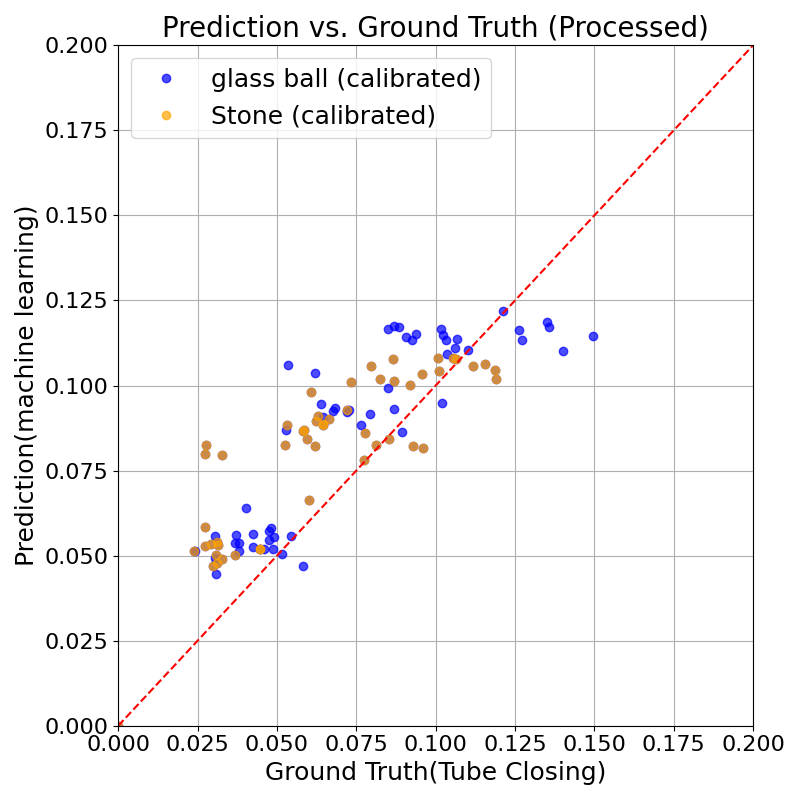
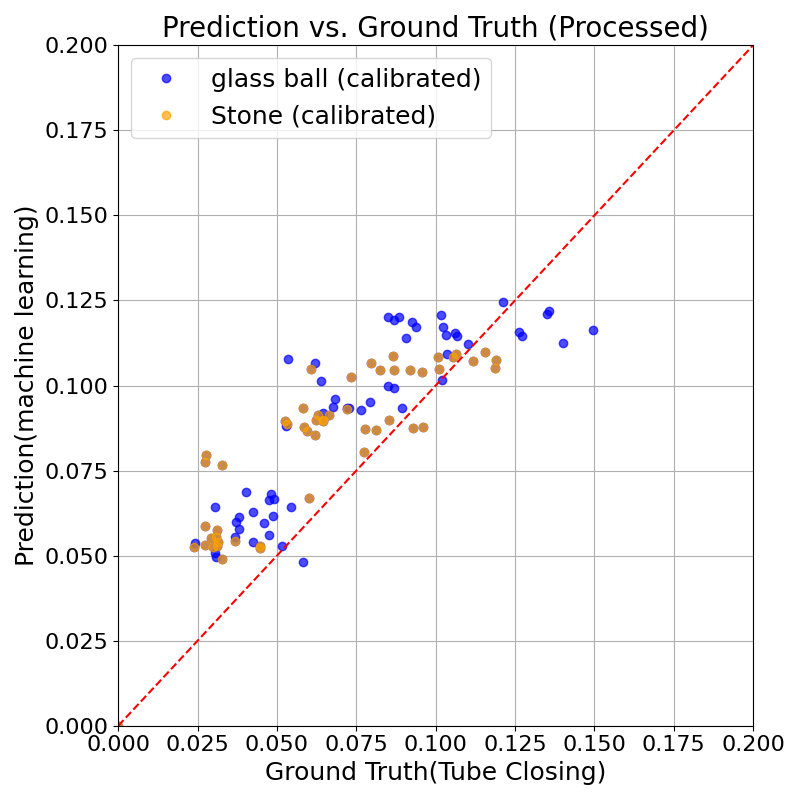
main

diff --git a/scripts/optimize.py b/scripts/optimize.py
@@ -300,11 +300,14 @@ def preprocess(x: np.ndarray):
     del sos
     for i in range(x.shape[1]):
         x[:,i,:,:] = np.abs(signal.hilbert(x[:,i,:,:], axis=2))
+    wall_idx=np.argmax(x>0.5,axis=1)
+    start_idx=np.mean(wall_idx).astype(int)+180
     print("Hilbert done.")
     max_values_per_col = np.max(x[:,:,:,250:350], axis=3, keepdims=True)
     x = x/max_values_per_col
     del max_values_per_col
     x = np.log1p(x)
+    x=x[:,start_idx:start_idx+1500]
     print("Preprocess done.")
     return x
 
@@ -400,14 +403,14 @@ def objective(trial: Trial, base_config_path: str) -> float:
             x = x[:, :, ::cfg.dataset.downsample_factor, :]
             print(f"[INFO] Downsampled H: {h0} -> {x.shape[2]} (factor={cfg.dataset.downsample_factor})")
         
-        # # Preprocess
-        # x = preprocess(x)
-        # print(f"x.shape: {x.shape}")
-        # print(f"x.min: {np.min(x)}")
-        # print(f"x.max: {np.max(x)}")
+        # Preprocess
+        x = preprocess(x)
+        print(f"x.shape: {x.shape}")
+        print(f"x.min: {np.min(x)}")
+        print(f"x.max: {np.max(x)}")
 
-        # x=x[:,0,:,:]
-        # x=x[:,np.newaxis,:,:]
+        x=x[:,0,:,:]
+        x=x[:,np.newaxis,:,:]
 
         # Create dataset
         print("[STEP] Build dataset tensors...")

diff --git a/src/utils.py b/src/utils.py
@@ -319,6 +319,11 @@ def erode_signals(x, window_size=30):
     import polars as pl
     s=pl.from_numpy(np.transpose(x))
 
+    s = s.select(pl.all().rolling_mean(
+        window_size=window_size//3,
+        min_periods=1
+    ))
+
     s = s.select(pl.all().rolling_min(
         window_size=window_size,
         min_periods=1
